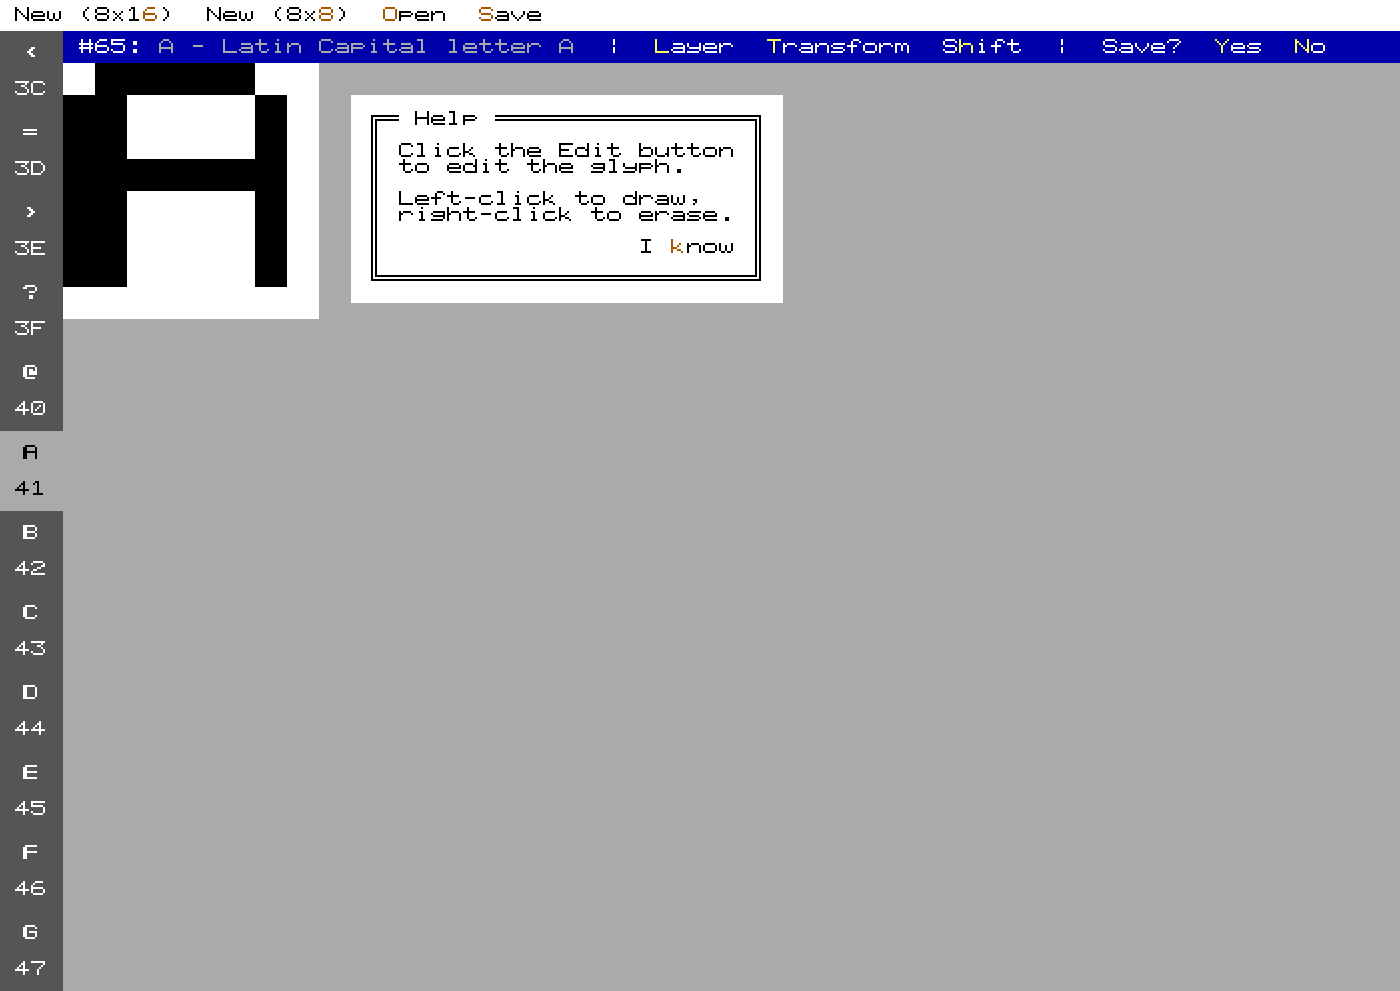
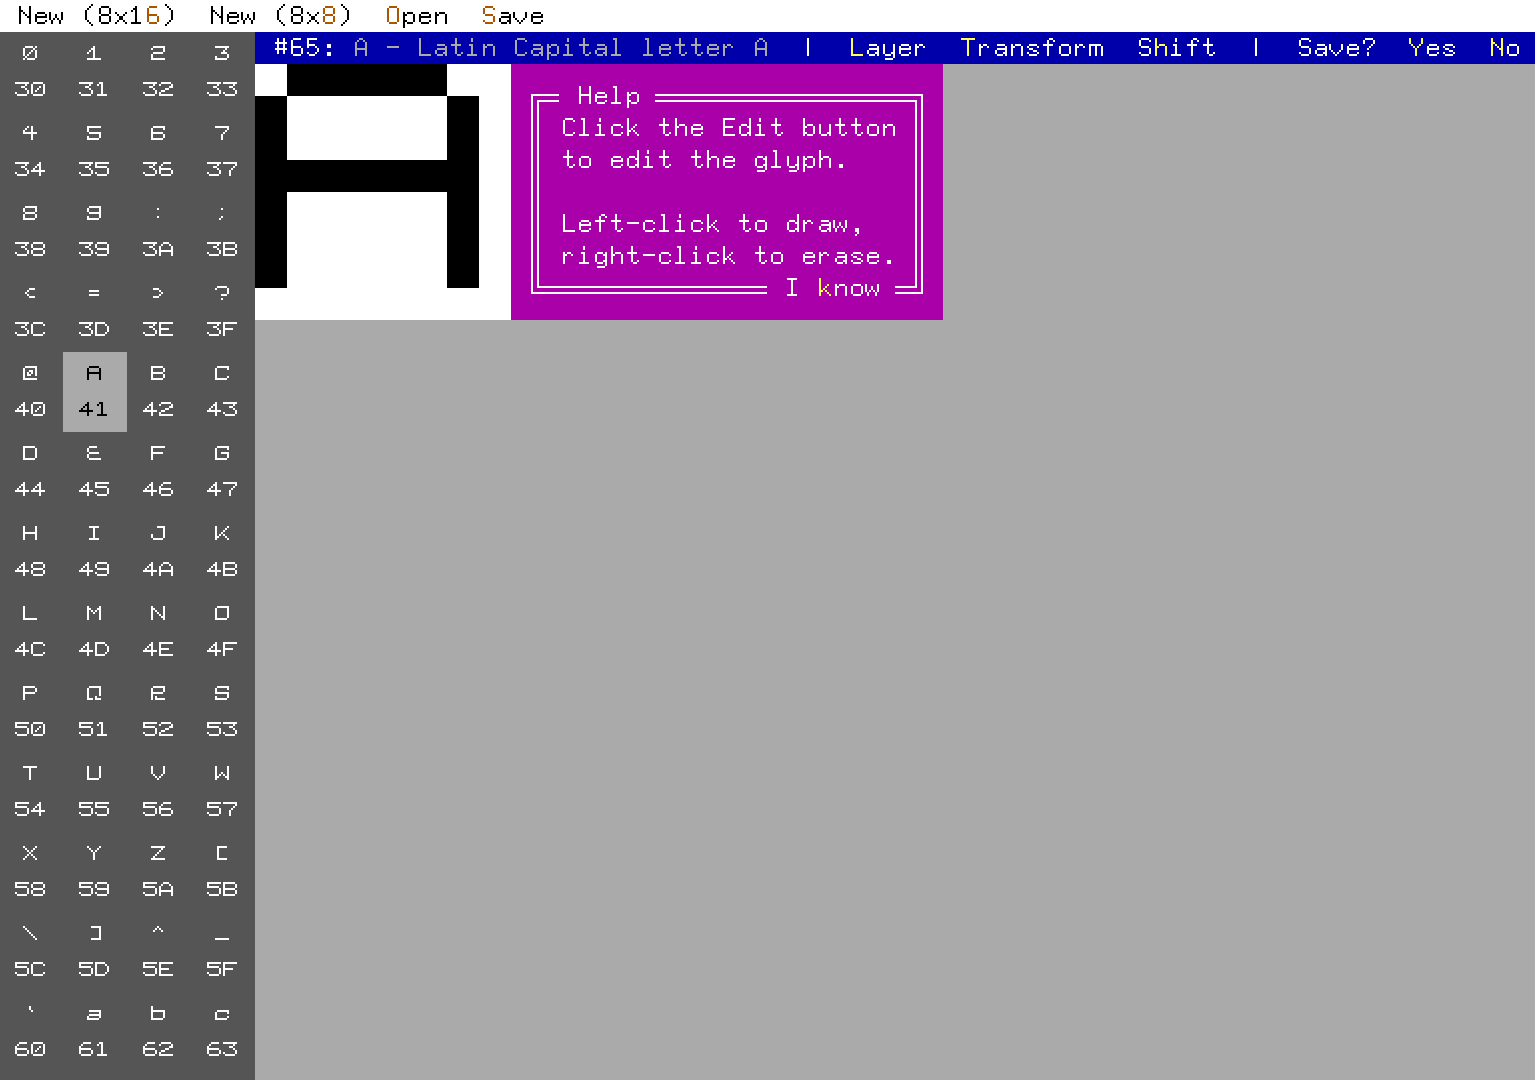
Add new font, use file picker to save, add unsaved warning, hide help menu, and update UI styles

Changed region(s): [[0.0, 0.0, 1.0, 1.0]]

diff --git a/scripts/script.js b/scripts/script.js
@@ -12,6 +12,15 @@ let editorData = {
 
 const isEditing = () => editorData.mode !== 'normal';
 const isDirty = () => isEditing() && editorData.changedData !== fontInfo.data[editorData.index];
+const isProjDirty = () => {
+    for (let i = 0; i < fontInfo.data.length; i++) {
+        const str = fontInfo.data[i];
+        if (str.includes('1')) {
+            return true;
+        }
+    }
+    return false;
+}
 
 const getEmptyData = () => "0".repeat(8 * fontInfo.height)
 
@@ -19,6 +28,7 @@ setEmptyData(16);
 
 function setEmptyData(h) {
     fontInfo.height = h;
+    editorData.clipboard = getEmptyData(fontInfo.height);
 
     const emptyData = getEmptyData();
 
@@ -47,26 +57,27 @@ async function resetCharsData(h) {
 
 function askIsAbandon() {
     return new Promise((resolve) => {
-        const abandonDiv = document.getElementById('warningArea');
+        if (isProjDirty()) {
+            const abandonDiv = document.getElementById('warningArea');
+            if (abandonDiv.querySelector('.menuButton')) {
+                resolve(false);
+                return;
+            }
 
-        if (abandonDiv.querySelector('.menuButton')) {
-            resolve(false);
-            return;
-        }
-
-        abandonDiv.innerHTML = `
+            abandonDiv.innerHTML = `
             <span style="color: var(--vga-red)">&nbsp;* Current will be lost!!!</span>
             <button class="menuButton" id="confirmYes"><bright>Y</bright>es</button>
             <button class="menuButton" id="confirmNo"><bright>N</bright>o</button>
         `;
 
-        const handleChoice = (choice) => {
-            abandonDiv.innerHTML = '';
-            resolve(choice);
-        };
+            const handleChoice = (choice) => {
+                abandonDiv.innerHTML = '';
+                resolve(choice);
+            };
 
-        document.getElementById('confirmYes').onclick = () => handleChoice(true);
-        document.getElementById('confirmNo').onclick = () => handleChoice(false);
+            document.getElementById('confirmYes').onclick = () => handleChoice(true);
+            document.getElementById('confirmNo').onclick = () => handleChoice(false);
+        } else resolve(true);
     });
 }
 
@@ -114,7 +125,7 @@ async function openFont() {
         }
 
         let fontHeight = charLen / 8;
-        if (fontHeight != 8 && fontHeight != 16) {
+        if (!(fontHeight > 0 && fontHeight <= 32)) {
             showError(`Font data error!`);
             return;
         }
@@ -132,7 +143,7 @@ async function openFont() {
     };
 }
 
-function saveFont() {
+async function saveFont() {
     if (isDirty()) {
         updateTitle(true);
         return;
@@ -149,6 +160,27 @@ function saveFont() {
             const rowString = charData.substring(row * 8, (row + 1) * 8);
             byteArray[i * fontInfo.height + row] = parseInt(rowString, 2);
         }
+    }
+
+    if ('showSaveFilePicker' in window) {
+        try {
+            const opts = {
+                suggestedName: 'FONT.RAW',
+                types: [{
+                    description: 'VGA Bitmap Font File',
+                    accept: { 'application/octet-stream': ['.RAW'] }
+                }]
+            };
+            const fileHandle = await window.showSaveFilePicker(opts);
+            const writable = await fileHandle.createWritable();
+            await writable.write(byteArray);
+            await writable.close();
+        } catch (err) {
+            if (err.name !== 'AbortError') {
+                console.error(err);
+            }
+        }
+        return;
     }
 
     const blob = new Blob([byteArray], { type: 'application/octet-stream' });
@@ -179,7 +211,16 @@ function truncateText(text) {
 function updateTitle(isWarning = false) {
     const index = editorData.index;
     const charTitle = document.getElementById('charTitle');
-    const descriptions = truncateText(charDescriptions[index]);
+
+    const descriptions = editorData.mode === 'normal' || editorData.mode === 'edit'
+        ? `
+            <span>&nbsp;#${index}:&nbsp;</span>
+                <span style="color: var(--vga-light-gray)" title="${charDescriptions[index].replace(/"/g, '&quot;')}">
+                    ${truncateText(charDescriptions[index])}
+                </span>
+            &nbsp;&nbsp;|&nbsp;
+        ` : '';
+
     const saveTexts = isEditing() ? `
         &nbsp;|&nbsp;&nbsp;
         <span style="color: var(${isWarning ? '--vga-brown)"> * ' : '--vga-white)">'}Save?</span>
@@ -232,8 +273,7 @@ function updateTitle(isWarning = false) {
     }
 
     charTitle.innerHTML = `
-        <span>&nbsp;#${index}:&nbsp;</span><span style="color: var(--vga-light-gray)">${descriptions}</span>
-        &nbsp;&nbsp;|&nbsp;${actionButtons}${saveTexts}
+        ${descriptions}${actionButtons}${saveTexts}
     `;
 }
 
@@ -463,4 +503,12 @@ function undoChanges() {
     editorData.changedData = "";
     renderCanvas();
     updateTitle();
+}
+
+function helpDisenable() {
+    const helpDiv = document.getElementById('helpText');
+    if (helpDiv) {
+        helpDiv.style.display = 'none';
+        localStorage.setItem('helpDisenable', 'true');
+    }
 }

diff --git a/styles/styles.css b/styles/styles.css
@@ -22,22 +22,23 @@
     src: url('../font/Px437_Sharp_PC3K_Alt.ttf') format('truetype');
 }
 
+@font-face {
+    font-family: 'MBytePC230';
+    src: url('../font/Web437_MBytePC230_8x16.woff') format('truetype');
+}
+
 html,
 body {
     padding: 0px;
     margin: 0px;
     width: 100%;
     height: 100%;
-    font-family: PC3K_Alt;
-    font-size: 16px;
+    font-family: MBytePC230;
+    font-size: 32px;
     color: var(--vga-black);
     min-width: 1700px;
     min-height: 640px;
     user-select: none;
-}
-
-.helpText bright {
-    color: var(--vga-brown)
 }
 
 .menuBar {
@@ -54,7 +55,7 @@ bright {
 
 .menuButton {
     height: 100%;
-    font-family: PC3K_Alt;
+    font-family: MBytePC230;
     line-height: 100%;
     background: none;
     background-color: transparent;
@@ -102,6 +103,7 @@ bright {
     align-items: center;
     justify-content: center;
     overflow: hidden;
+    font-size: 16px;
 }
 
 .charButton:hover,
@@ -134,6 +136,7 @@ bright {
     position: absolute;
     bottom: 14px;
     padding: 0 2px;
+    font-family: PC3K_Alt;
 }
 
 .editor {
@@ -144,11 +147,15 @@ bright {
 
 .charArea {
     background-color: var(--vga-dark-gray);
-    width: 64px;
+    width: 256px;
     height: 100%;
     overflow-x: hidden;
     overflow-y: auto;
     scrollbar-width: none;
+    display: flex;
+    flex-wrap: wrap;
+    align-content: flex-start;
+    flex-shrink: 0
 }
 
 .charArea::-webkit-scrollbar {
@@ -166,13 +173,43 @@ bright {
 }
 
 .helpText {
-    line-height: 16px;
-    margin: 32px;
+    line-height: 32px;
+    margin: 0px 0px;
     padding: 16px 16px;
-    background-color: var(--vga-white);
-    color: var(--vga-black);
+    background-color: var(--vga-magenta);
+    color: var(--vga-white);
     width: fit-content;
     height: fit-content;
+}
+
+.helpText .menuButton {
+    color: var(--vga-white);
+}
+
+.helpText .menuButton:hover {
+    background-color: var(--vga-light-magenta);
+}
+
+.helpText .menuButton:active {
+    background-color: var(--vga-white);
+    color: var(--vga-black)
+}
+
+.helpText .menuButton.pressed {
+    background-color: var(--vga-white);
+    color: var(--vga-black)
+}
+
+.helpText .menuButton:active bright {
+    color: var(--vga-brown)
+}
+
+.helpText .menuButton.pressed bright {
+    color: var(--vga-brown)
+}
+
+.helpText bright {
+    color: var(--vga-yellow)
 }
 
 .helpText p {
@@ -229,7 +266,7 @@ bright {
     display: grid;
     grid-template-columns: repeat(8, 32px);
     grid-template-rows: repeat(16, 32px);
-    width: fit-content
+    width: fit-content;
 }
 
 .pixel {

diff --git a/index.html b/index.html
@@ -33,25 +33,6 @@
             <div class="charTitle" id="charTitle"></div>
             <div class="canvarsAndHelp">
                 <div class="pixelCanvas" id="pixelCanvas"></div>
-                <div class="helpText" id="helpText">
-                    <p>╔═ Help ════════════════╗</p>
-                    <p>║&nbsp;&nbsp;&nbsp;&nbsp;&nbsp;&nbsp;&nbsp;&nbsp;&nbsp;&nbsp;&nbsp;&nbsp;
-                        &nbsp;&nbsp;&nbsp;&nbsp;&nbsp;&nbsp;&nbsp;&nbsp;&nbsp;&nbsp;║</p>
-                    <p>║ Click the Edit button ║</p>
-                    <p>║ to edit the glyph.&nbsp;&nbsp;&nbsp; ║</p>
-                    <p>║&nbsp;&nbsp;&nbsp;&nbsp;&nbsp;&nbsp;&nbsp;&nbsp;&nbsp;&nbsp;&nbsp;&nbsp;
-                        &nbsp;&nbsp;&nbsp;&nbsp;&nbsp;&nbsp;&nbsp;&nbsp;&nbsp;&nbsp;║</p>
-                    <p>║ Left-click to draw,&nbsp;&nbsp; ║</p>
-                    <p>║ right-click to erase. ║</p>
-                    <p>║&nbsp;&nbsp;&nbsp;&nbsp;&nbsp;&nbsp;&nbsp;&nbsp;&nbsp;&nbsp;&nbsp;&nbsp;
-                        &nbsp;&nbsp;&nbsp;&nbsp;&nbsp;&nbsp;&nbsp;&nbsp;&nbsp;&nbsp;║</p>
-                    <p>║&nbsp;&nbsp;&nbsp;&nbsp;&nbsp;&nbsp;&nbsp;&nbsp;&nbsp;&nbsp;&nbsp;&nbsp;&nbsp;&nbsp;
-                        <button class="menuButton" onclick="document.getElementById('helpText').remove();">I <bright>k</bright>now</button>║
-                    </p>
-                    <p>║&nbsp;&nbsp;&nbsp;&nbsp;&nbsp;&nbsp;&nbsp;&nbsp;&nbsp;&nbsp;&nbsp;&nbsp;
-                        &nbsp;&nbsp;&nbsp;&nbsp;&nbsp;&nbsp;&nbsp;&nbsp;&nbsp;&nbsp;║</p>
-                    <p>╚═══════════════════════╝</p>
-                </div>
             </div>
         </div>
     </div>

diff --git a/scripts/init.js b/scripts/init.js
@@ -10,3 +10,27 @@ for (let i = 0; i < 256; i++) {
     `;
 }
 charArea.insertAdjacentHTML('beforeend', buttonsHTML);
+
+(() => {
+    const container = document.querySelector('.canvarsAndHelp');
+    const isDisabled = localStorage.getItem('helpDisenable') === 'true';
+    if (isDisabled) return;
+
+    const helpHTML = `
+        <div class="helpText" id="helpText">
+            <p>╔═ Help ════════════════╗</p>
+            <p>║ Click the Edit button ║</p>
+            <p>║ to edit the glyph.&nbsp;&nbsp;&nbsp; ║</p>
+            <p>║&nbsp;&nbsp;&nbsp;&nbsp;&nbsp;&nbsp;&nbsp;&nbsp;&nbsp;&nbsp;&nbsp;&nbsp;
+                &nbsp;&nbsp;&nbsp;&nbsp;&nbsp;&nbsp;&nbsp;&nbsp;&nbsp;&nbsp;║</p>
+            <p>║ Left-click to draw,&nbsp;&nbsp; ║</p>
+            <p>║ right-click to erase. ║</p>
+            <p>╚══════════════<button class="menuButton" id="closeHelpBtn" onclick="helpDisenable()">I <bright>k</bright>now</button>═╝</p>
+        </div>
+    `;
+    container.insertAdjacentHTML('beforeend', helpHTML);
+})();
+
+window.addEventListener('beforeunload', function (event) {
+    if (isProjDirty() || isEditing()) event.preventDefault();
+});
